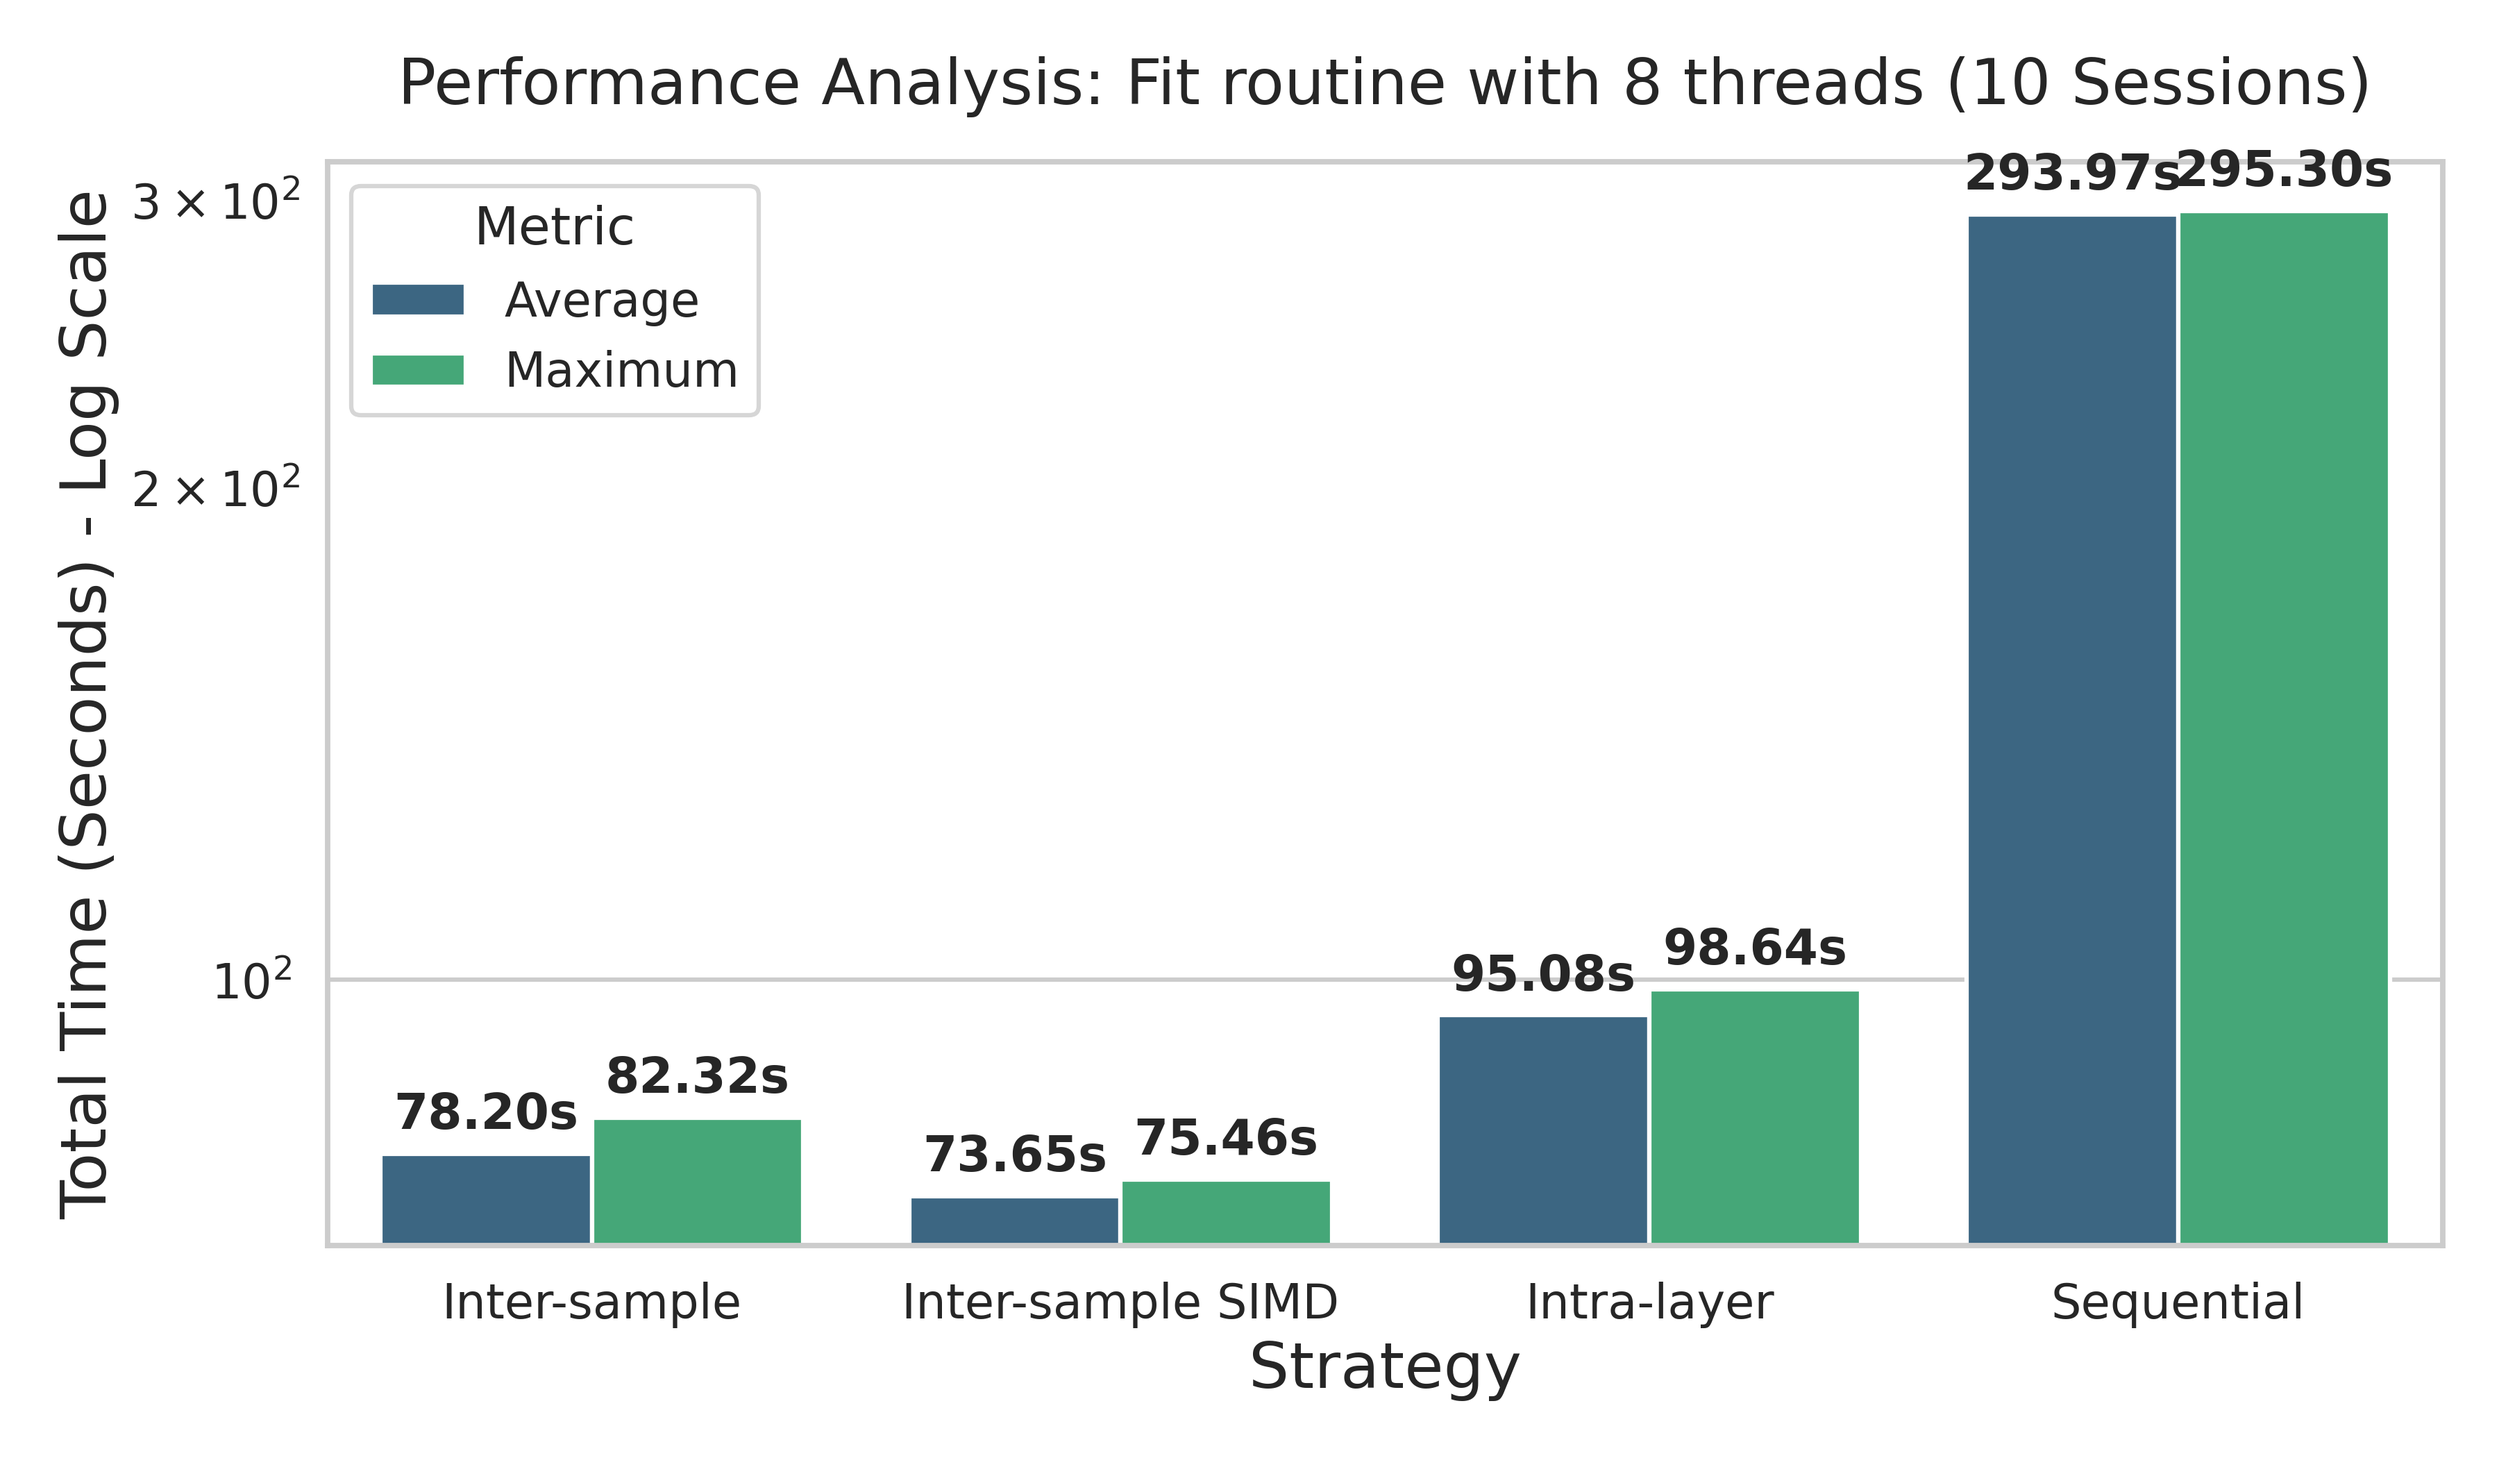
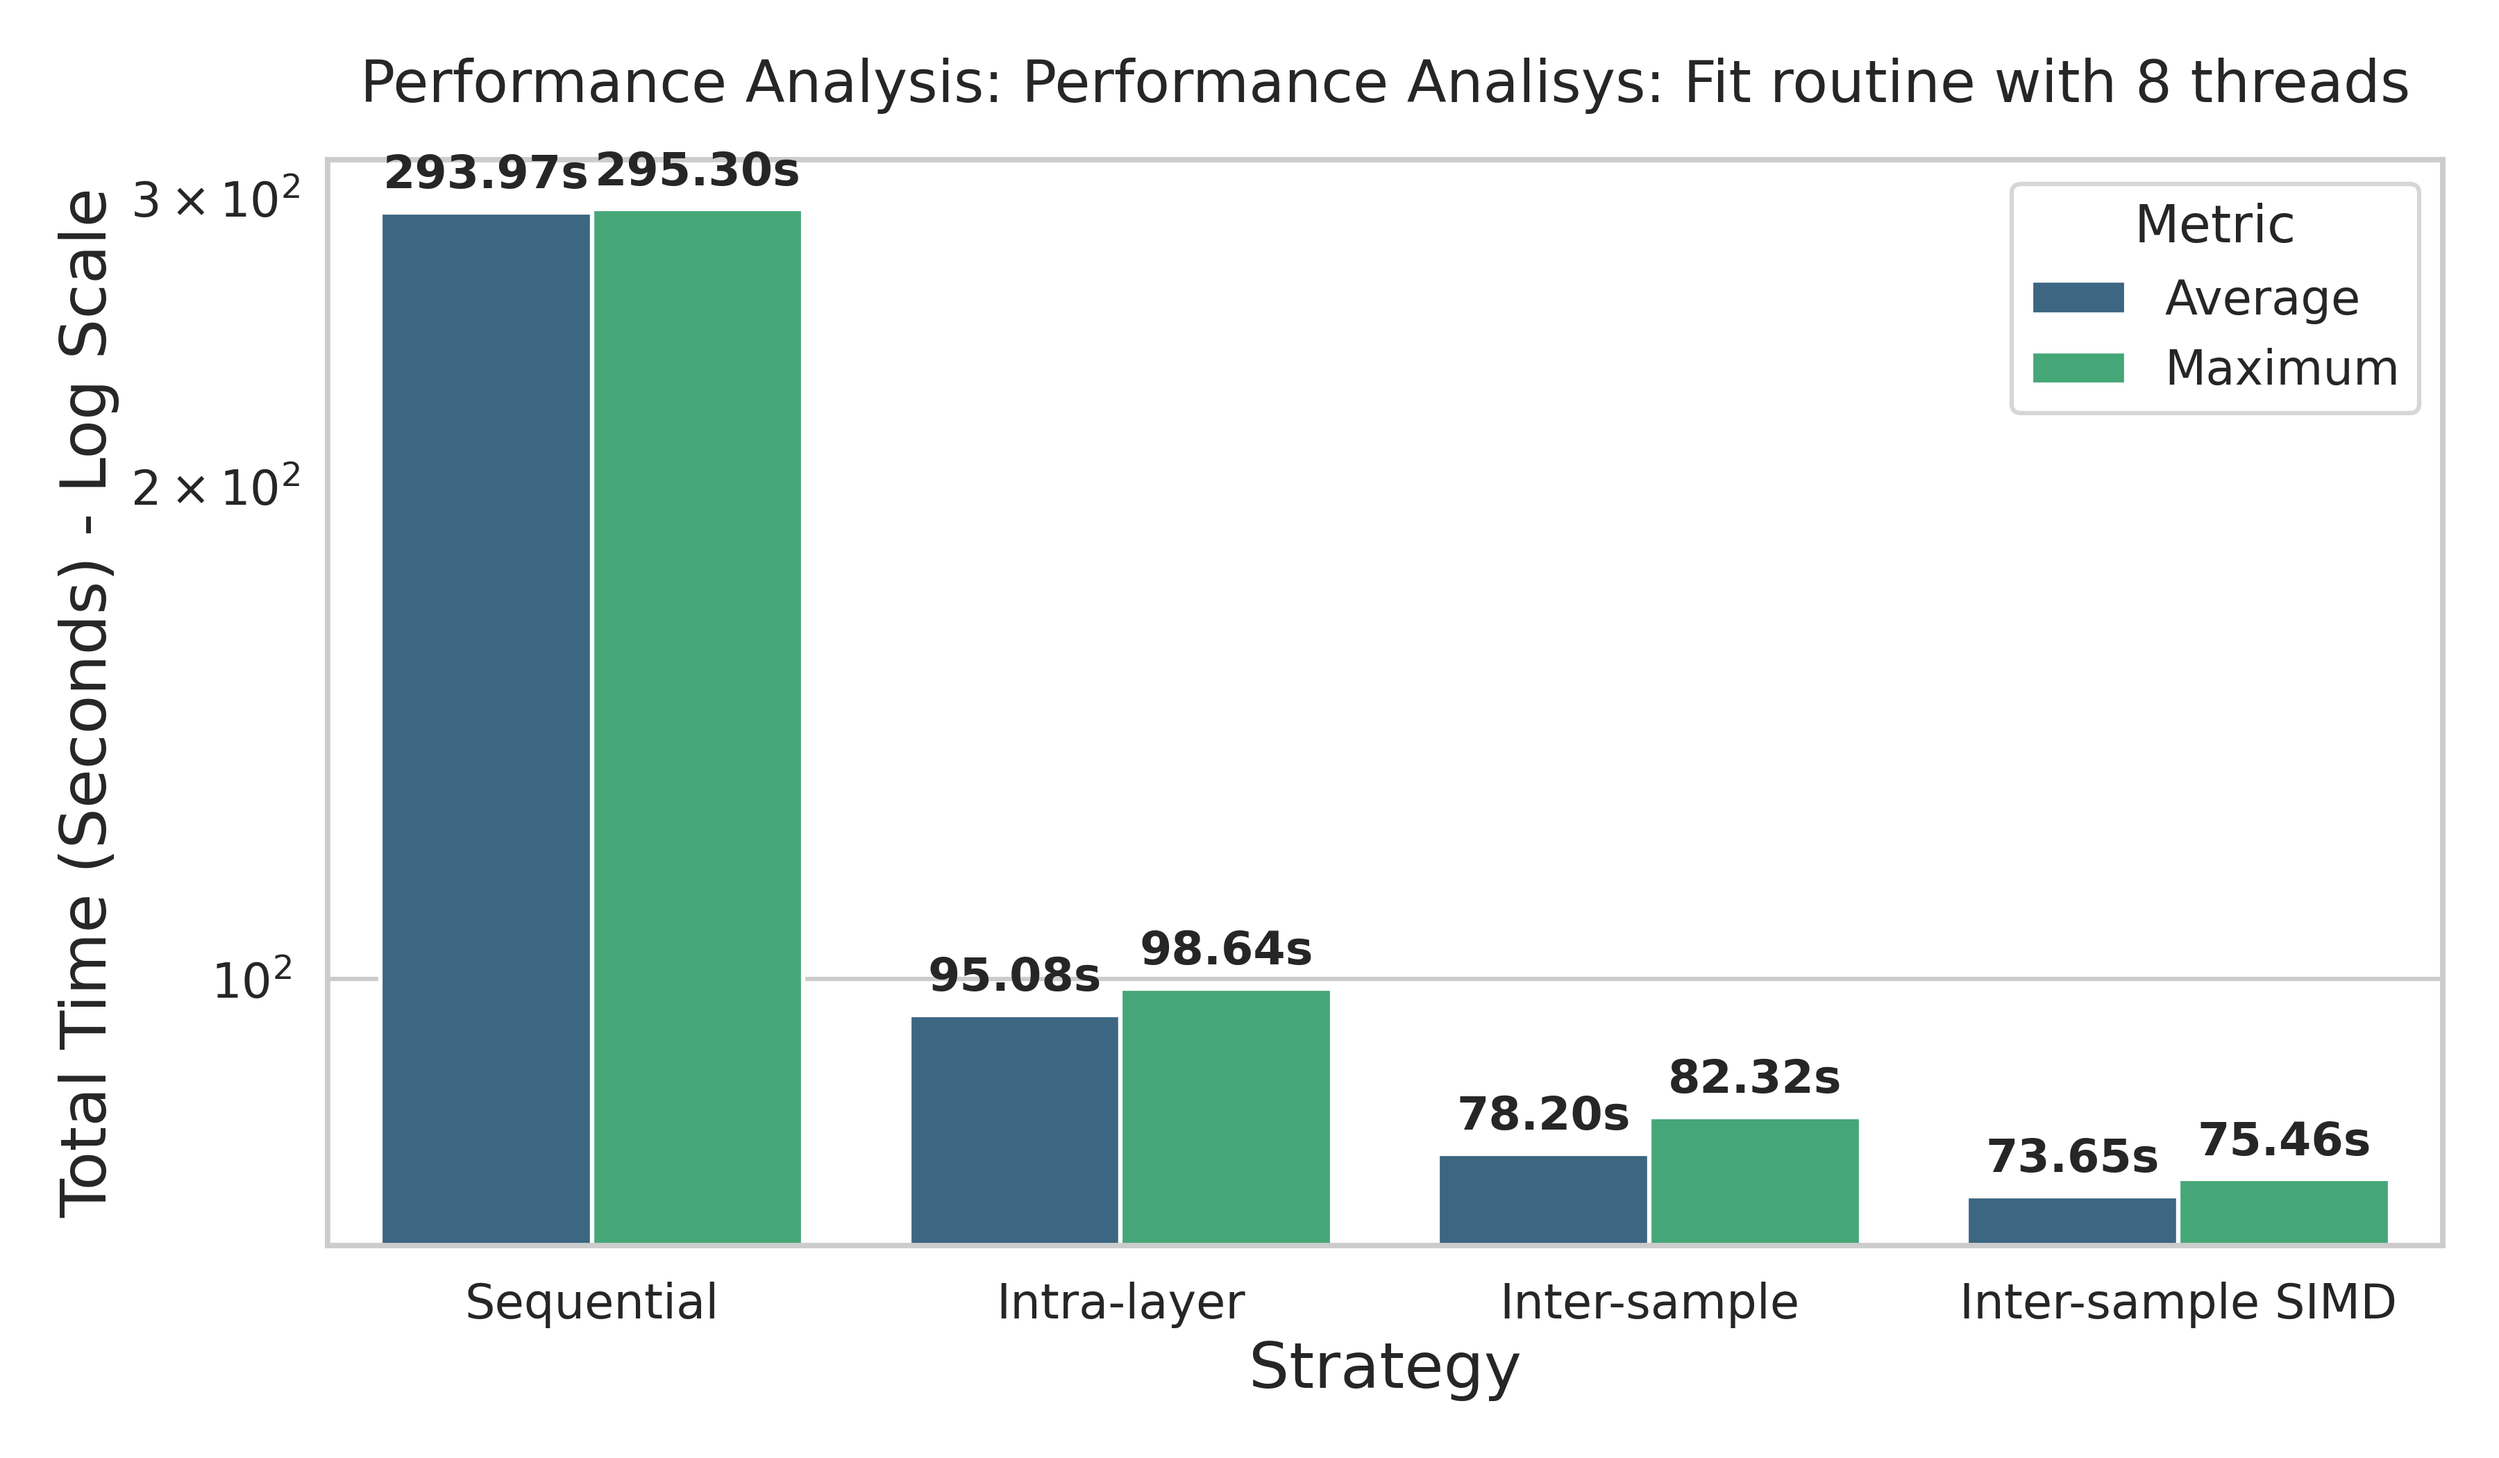
chart update

diff --git a/scripts/plot_fit.py b/scripts/plot_fit.py
@@ -12,9 +12,10 @@ def generate_session_bars(folder_name, title):
         print(f"Error: Directory '{results_dir}' not found.")
         return
 
-    all_files = [f for f in os.listdir(results_dir) if f.endswith('.csv')]
+    all_files = [f for f in os.listdir(results_dir) if f.endswith('.csv') and not f.startswith('1')]
     dataframes = []
     for f in all_files:
+         
         df = pd.read_csv(os.path.join(results_dir, f), skipinitialspace=True)
         dataframes.append(df)
     
@@ -30,11 +31,12 @@ def generate_session_bars(folder_name, title):
 
     plt.figure(figsize=(12, 7))
     
-    ax = sns.barplot(x='Strategy', y='Time', hue='Metric', data=plot_df, palette='viridis')
+    ax = sns.barplot(x='Strategy', y='Time', hue='Metric', data=plot_df, palette='viridis',
+            order=['Sequential', 'Intra-layer', 'Inter-sample', 'Inter-sample SIMD'])
 
     plt.yscale('log')
 
-    plt.title(f'Performance Analysis: {title} (10 Sessions)', fontsize=20, pad=20)
+    plt.title(f'Performance Analysis: {title}', fontsize=20, pad=20)
     plt.ylabel('Total Time (Seconds) - Log Scale', fontsize=22)
     plt.xlabel('Strategy', fontsize=22)
 
